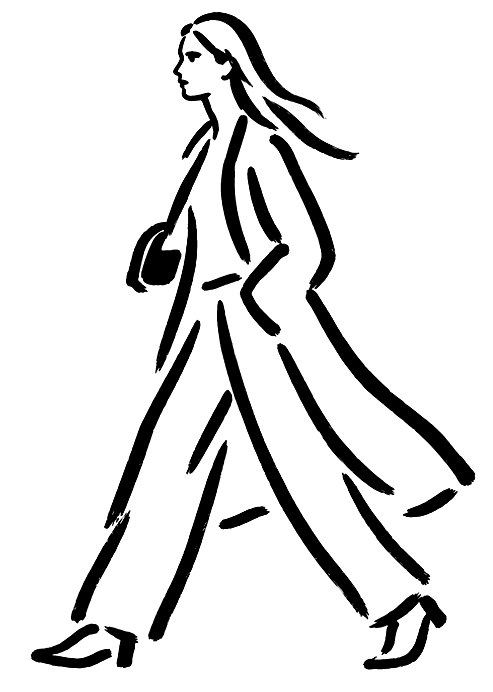
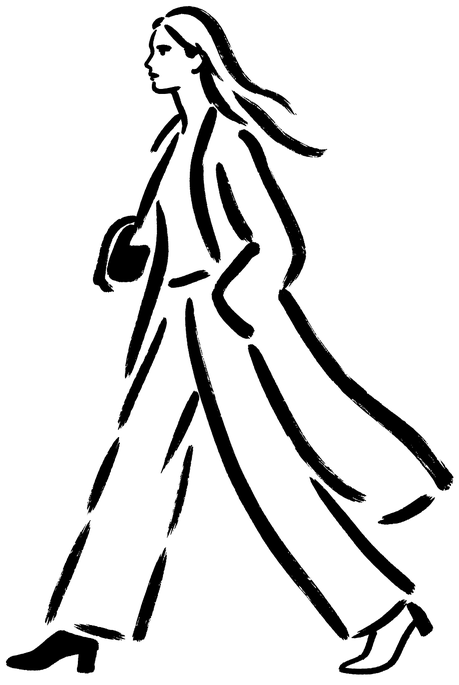
LATITUDE lab: walk frames drawn one at a time; far leg in thin strokes with a black shoe so the four frames differ

Changed region(s): [[0.0, 0.0, 1.0, 1.0]]

diff --git a/app/[locale]/latitude/lab/draw-walk/page.tsx b/app/[locale]/latitude/lab/draw-walk/page.tsx
@@ -5,8 +5,8 @@ import { DrawWalk } from '@/components/latitude/DrawWalk';
 export const metadata: Metadata = { title: 'LATITUDE lab', robots: { index: false, follow: false } };
 
 export default function DrawWalkLab() {
-  // 地図のページ（1080×1440）の上の、歩く絵の場所（x600 y640、高さ587。絵は 493×692 の比）
-  const h = 587, w = Math.round((587 * 493) / 692); // 4コマの枠 493×692
+  // 地図のページ（1080×1440）の上の、歩く絵の場所（x600 y640、高さ587。絵は 919×1371 の比）
+  const h = 587, w = Math.round((587 * 919) / 1371); // 4コマの枠 919×1371
   return (
     <div className="flex min-h-screen items-center justify-center p-4" style={{ background: '#0c0c0b' }}>
       <div className="relative" style={{ aspectRatio: '3 / 4', width: 'min(100vw - 2rem, 75svh)' }}>
